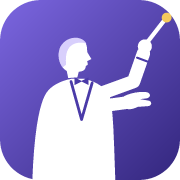
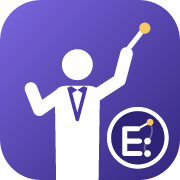
feat: marca final do regente com o monograma no canto
Marca principal em pictograma: um regente de fraque e gravata-borboleta erguendo
a batuta, com a marca pequena num selo no canto inferior direito. A marca pequena
junta as variações B e C: um E cuja barra de cima vira a batuta de ponta
dourada e as outras terminam nos agentes, ligados pelo traço do compasso;
é o favicon e a marca da barra lateral. SVG escrito à mão e conferido em 16, 32,
64 e 200 px nos fundos claro e escuro; apple-touch-icon regenerado.

Changed region(s): [[0.1111, 0.0556, 0.9722, 1.0]]

diff --git a/README.md b/README.md
@@ -4,7 +4,7 @@
 
 > Uma meta. Varios agentes. Uma execucao coordenada.
 
-O nome homenageia o regente brasileiro Eleazar de Carvalho: assim como um maestro conduz a orquestra, o Eleazar conduz os agentes de programacao. A marca, um regente com a batuta erguida, fica em `docs/assets/eleazar-maestro.svg` (versao completa) e `apps/control-room/public/favicon.svg` (versao simplificada para tamanhos pequenos).
+O nome homenageia o regente brasileiro Eleazar de Carvalho: assim como um maestro conduz a orquestra, o Eleazar conduz os agentes de programacao. A marca principal, um regente com a batuta erguida, fica em `docs/assets/eleazar-maestro.svg`; no canto dela aparece a marca pequena, um E cuja barra de cima vira a batuta e as outras terminam nos agentes que ela conduz (`apps/control-room/public/favicon.svg`, usada no favicon e na barra lateral).
 
 Eleazar e um orquestrador local-first de agentes de programacao. Ele classifica uma tarefa, verifica provedores locais e delega a execucao ao agente mais adequado. O **Control Room** e a interface React local para acompanhar os projetos, tarefas, execucoes e decisoes persistidos pelo nucleo em SQLite.
 
